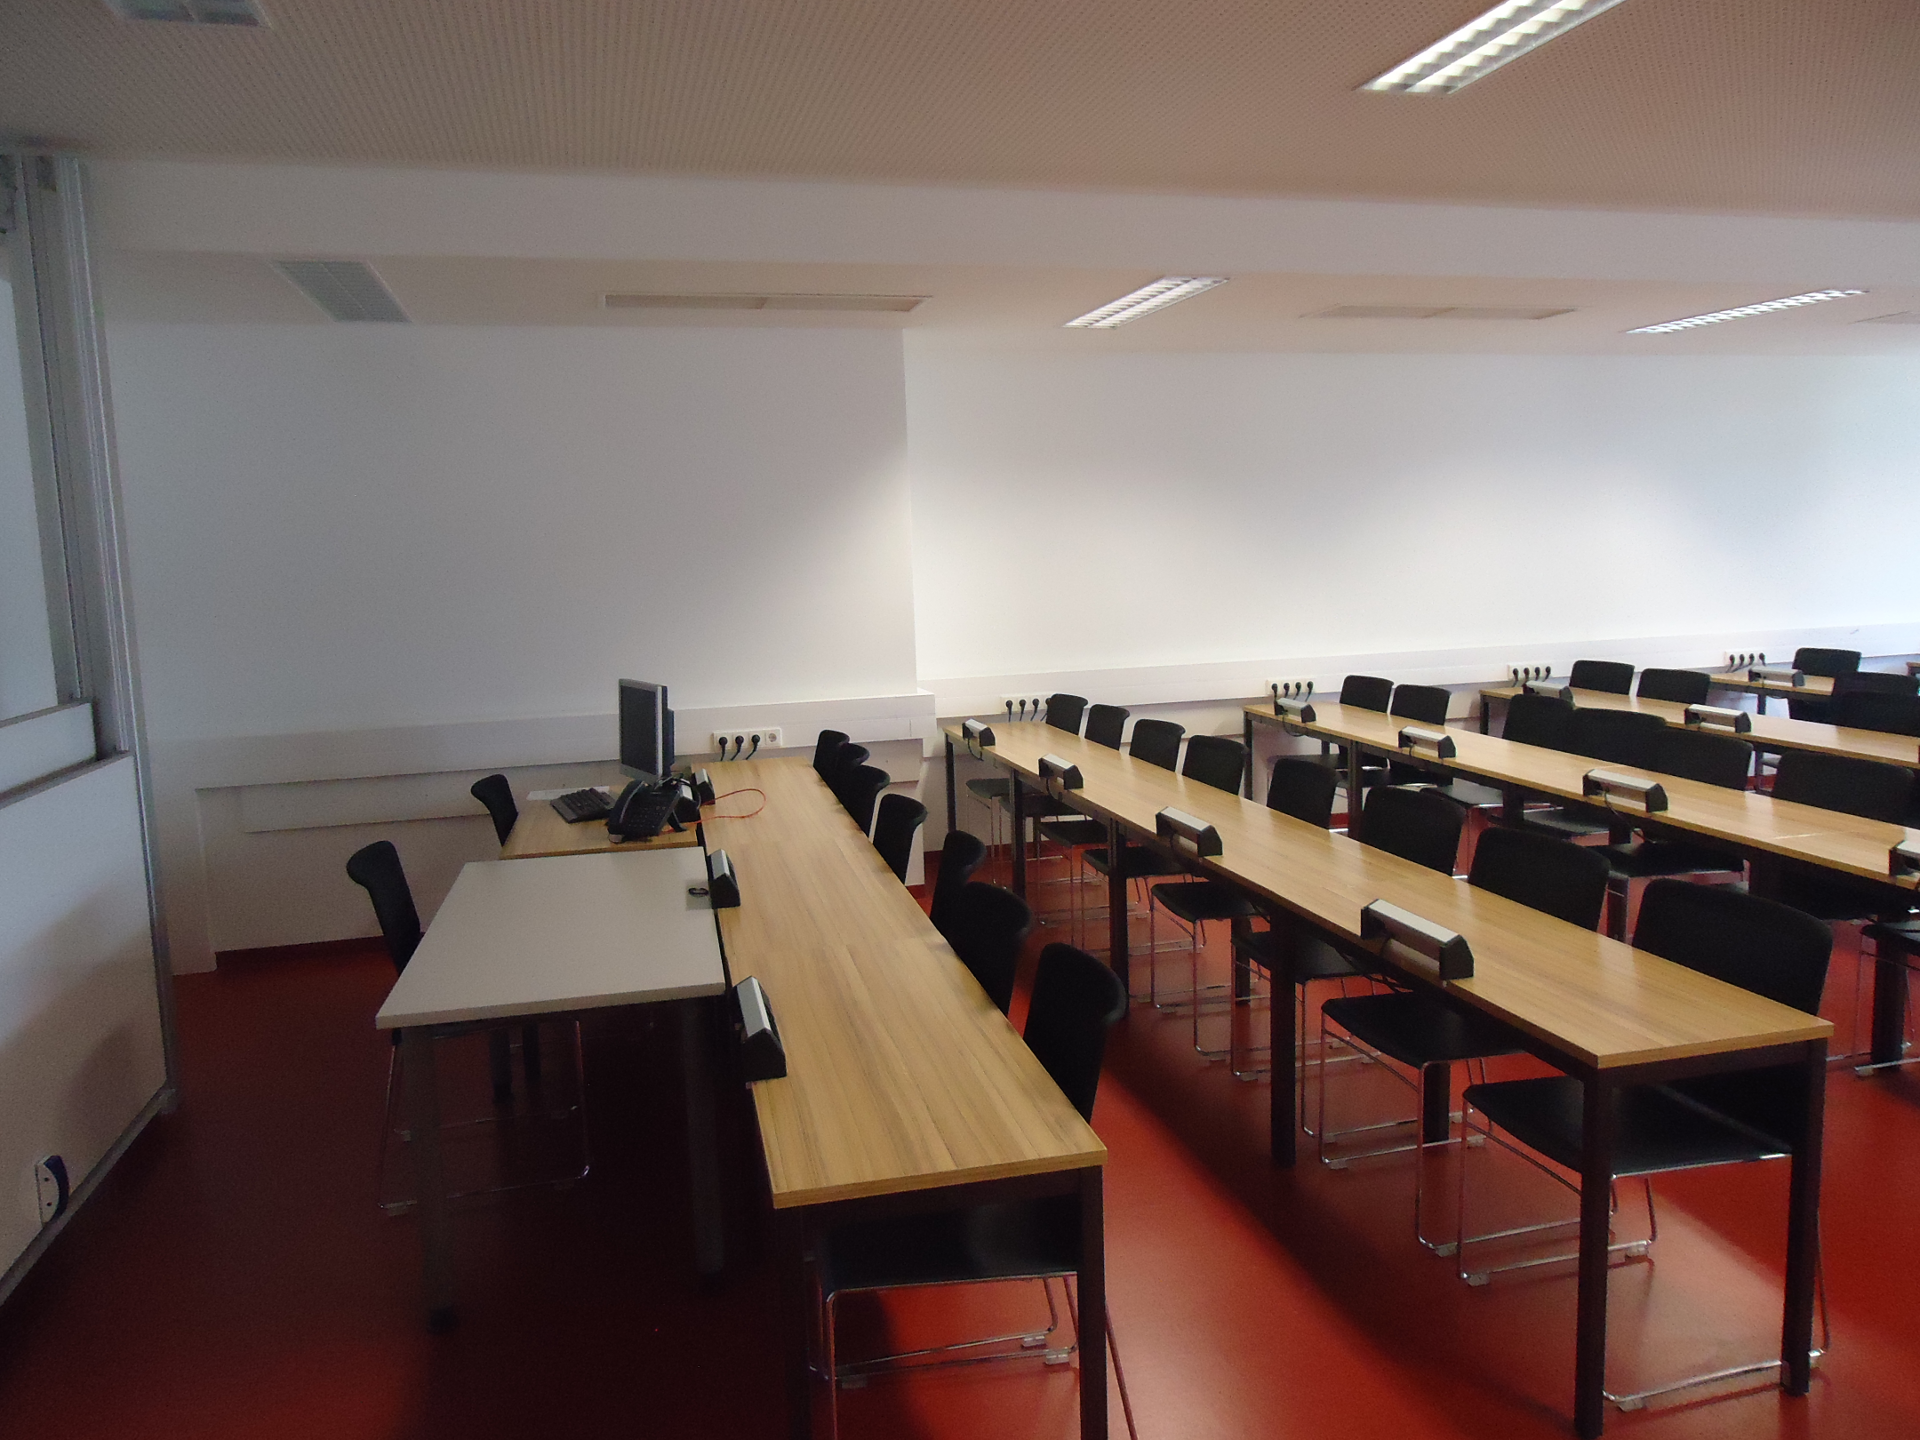
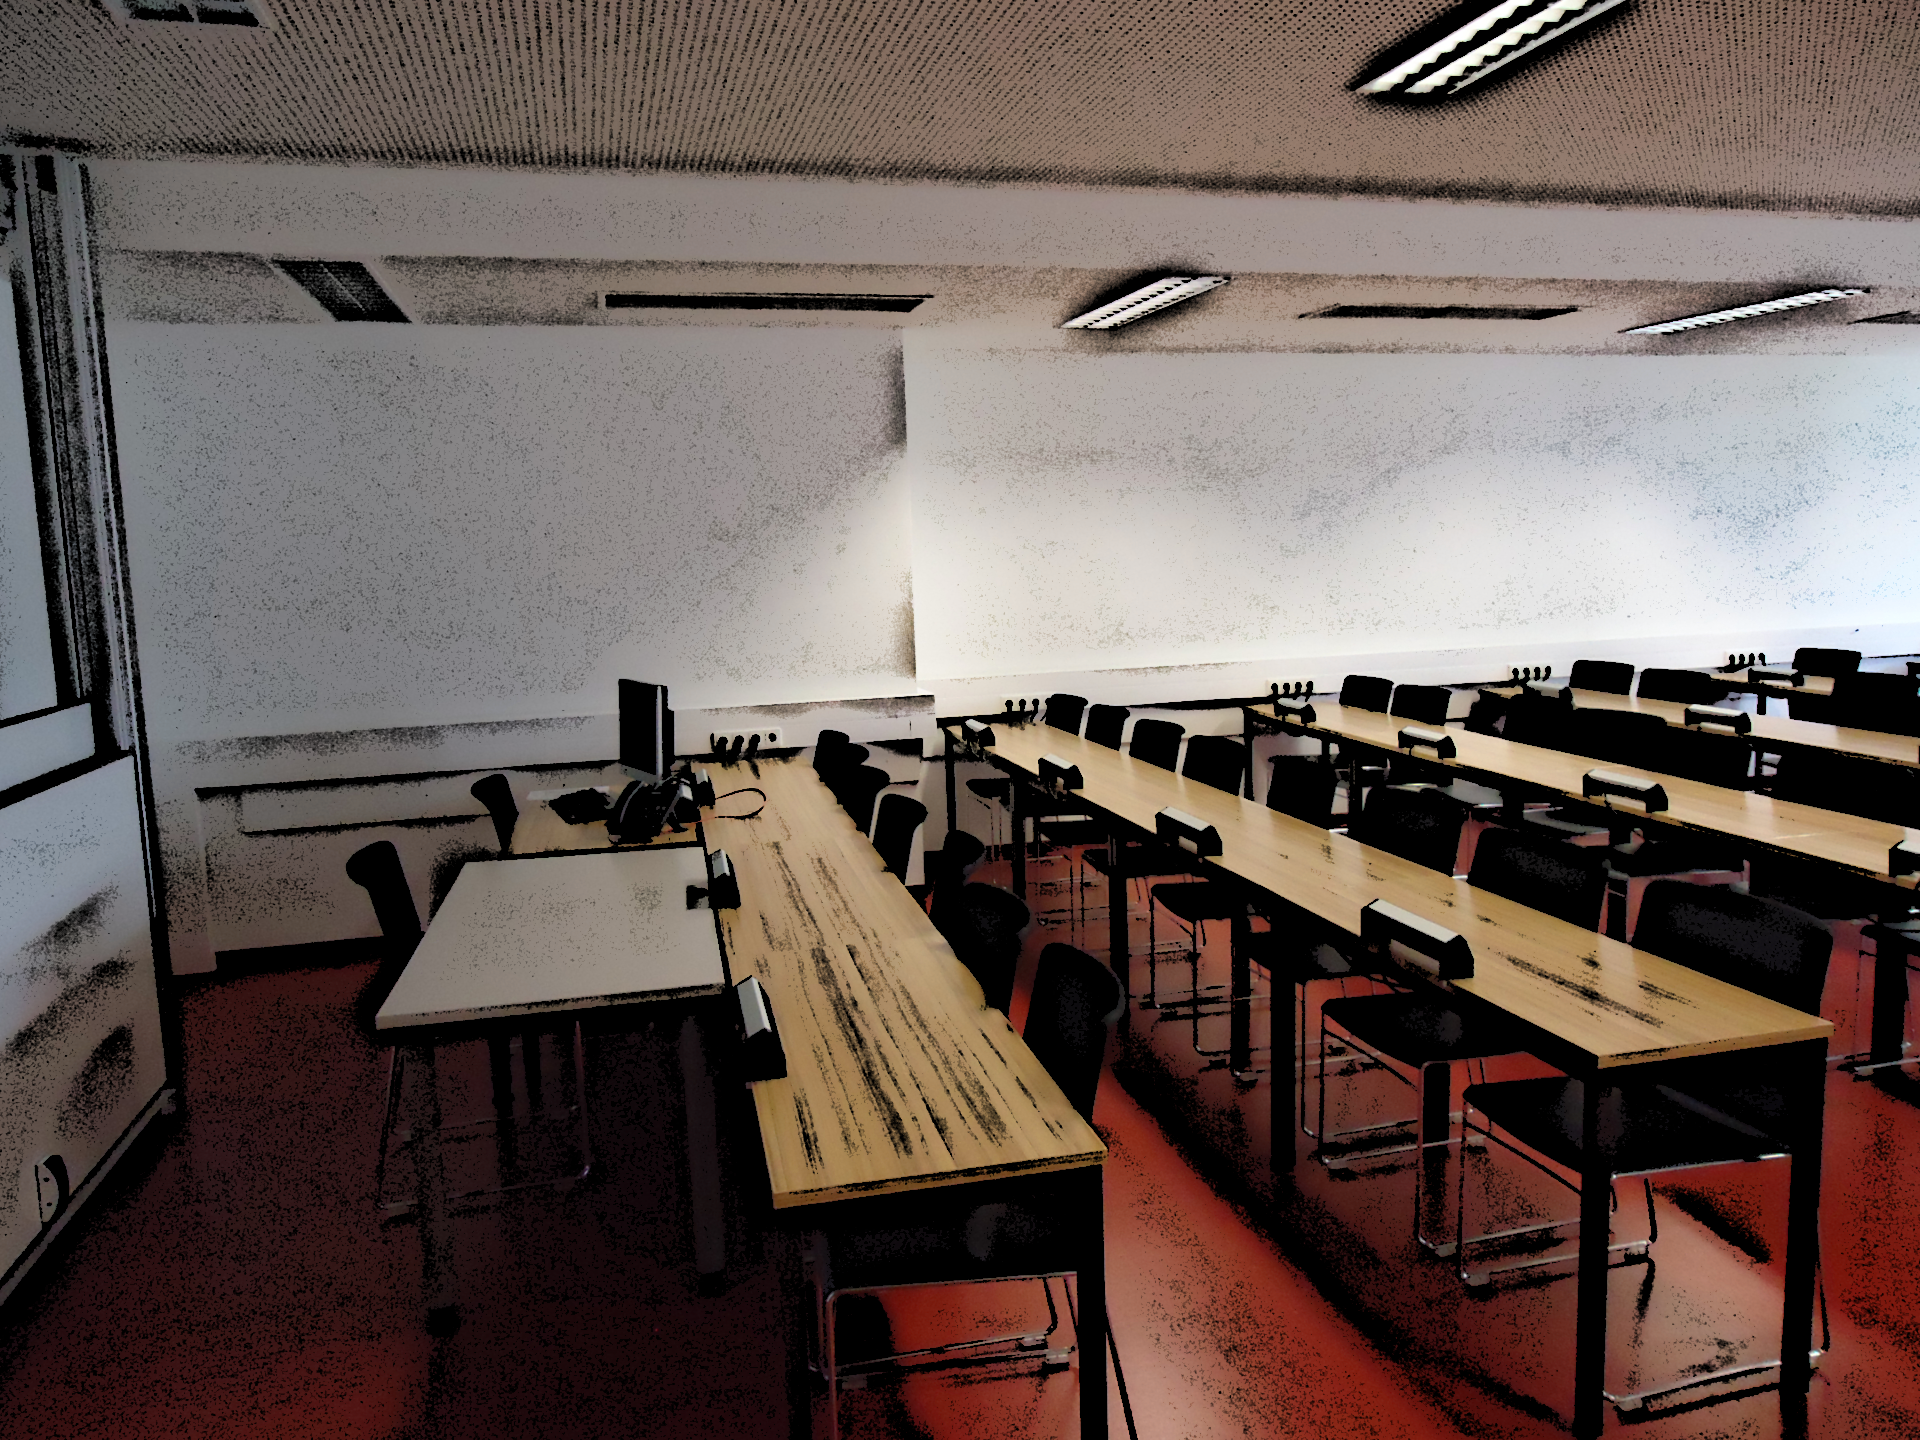
farben angepasst

diff --git a/ProjectMurderMystery/src/engine/menu/Pause.java b/ProjectMurderMystery/src/engine/menu/Pause.java
@@ -47,14 +47,14 @@ public class Pause extends Screen {
 
         setBackground(new java.awt.Color(0, 255, 204));
         setOpaque(false);
-        setLayout(new java.awt.GridLayout());
+        setLayout(new java.awt.GridLayout(1, 0));
 
         bufferLeft.setBackground(new java.awt.Color(233, 124, 124));
         bufferLeft.setOpaque(false);
         bufferLeft.setLayout(null);
         add(bufferLeft);
 
-        container.setBackground(new java.awt.Color(160, 9, 9));
+        container.setBackground(new java.awt.Color(108, 105, 105));
 
         back.setText("back");
 
@@ -69,23 +69,22 @@ public class Pause extends Screen {
         containerLayout.setHorizontalGroup(
             containerLayout.createParallelGroup(javax.swing.GroupLayout.Alignment.LEADING)
             .addGroup(containerLayout.createSequentialGroup()
-                .addGap(82, 82, 82)
-                .addGroup(containerLayout.createParallelGroup(javax.swing.GroupLayout.Alignment.LEADING, false)
-                    .addComponent(exit, javax.swing.GroupLayout.DEFAULT_SIZE, 61, Short.MAX_VALUE)
-                    .addGroup(containerLayout.createParallelGroup(javax.swing.GroupLayout.Alignment.LEADING, false)
-                        .addComponent(load, javax.swing.GroupLayout.DEFAULT_SIZE, javax.swing.GroupLayout.DEFAULT_SIZE, Short.MAX_VALUE)
-                        .addComponent(options, javax.swing.GroupLayout.DEFAULT_SIZE, 61, Short.MAX_VALUE)
-                        .addComponent(back, javax.swing.GroupLayout.DEFAULT_SIZE, javax.swing.GroupLayout.DEFAULT_SIZE, Short.MAX_VALUE)))
-                .addContainerGap(106, Short.MAX_VALUE))
+                .addContainerGap(59, Short.MAX_VALUE)
+                .addGroup(containerLayout.createParallelGroup(javax.swing.GroupLayout.Alignment.TRAILING, false)
+                    .addComponent(load, javax.swing.GroupLayout.DEFAULT_SIZE, javax.swing.GroupLayout.DEFAULT_SIZE, Short.MAX_VALUE)
+                    .addComponent(back, javax.swing.GroupLayout.Alignment.LEADING, javax.swing.GroupLayout.DEFAULT_SIZE, javax.swing.GroupLayout.DEFAULT_SIZE, Short.MAX_VALUE)
+                    .addComponent(options, javax.swing.GroupLayout.Alignment.LEADING, javax.swing.GroupLayout.DEFAULT_SIZE, 96, Short.MAX_VALUE)
+                    .addComponent(exit, javax.swing.GroupLayout.DEFAULT_SIZE, javax.swing.GroupLayout.DEFAULT_SIZE, Short.MAX_VALUE))
+                .addContainerGap(61, Short.MAX_VALUE))
         );
         containerLayout.setVerticalGroup(
             containerLayout.createParallelGroup(javax.swing.GroupLayout.Alignment.LEADING)
             .addGroup(containerLayout.createSequentialGroup()
                 .addGap(54, 54, 54)
                 .addComponent(back, javax.swing.GroupLayout.PREFERRED_SIZE, 41, javax.swing.GroupLayout.PREFERRED_SIZE)
-                .addGap(18, 18, 18)
+                .addPreferredGap(javax.swing.LayoutStyle.ComponentPlacement.UNRELATED)
                 .addComponent(options, javax.swing.GroupLayout.PREFERRED_SIZE, 40, javax.swing.GroupLayout.PREFERRED_SIZE)
-                .addGap(18, 18, 18)
+                .addGap(24, 24, 24)
                 .addComponent(load, javax.swing.GroupLayout.PREFERRED_SIZE, 41, javax.swing.GroupLayout.PREFERRED_SIZE)
                 .addGap(18, 18, 18)
                 .addComponent(exit, javax.swing.GroupLayout.PREFERRED_SIZE, 41, javax.swing.GroupLayout.PREFERRED_SIZE)
@@ -94,7 +93,7 @@ public class Pause extends Screen {
 
         add(container);
 
-        bufferRight.setBackground(new java.awt.Color(233, 124, 124));
+        bufferRight.setBackground(new java.awt.Color(108, 105, 105));
         bufferRight.setOpaque(false);
         bufferRight.setLayout(null);
         add(bufferRight);

diff --git a/ProjectMurderMystery/src/engine/menu/KeybindingsScreen.java b/ProjectMurderMystery/src/engine/menu/KeybindingsScreen.java
@@ -131,12 +131,16 @@ public class KeybindingsScreen extends Screen {
 
         back.setText("back");
 
+        label1.setForeground(new java.awt.Color(255, 255, 255));
         label1.setText("Text beschleunigen");
 
+        label2.setForeground(new java.awt.Color(255, 255, 255));
         label2.setText("Auswählen");
 
+        label3.setForeground(new java.awt.Color(255, 255, 255));
         label3.setText("Rauf");
 
+        label4.setForeground(new java.awt.Color(255, 255, 255));
         label4.setText("Runter");
 
         javax.swing.GroupLayout panel1Layout = new javax.swing.GroupLayout(panel1);
